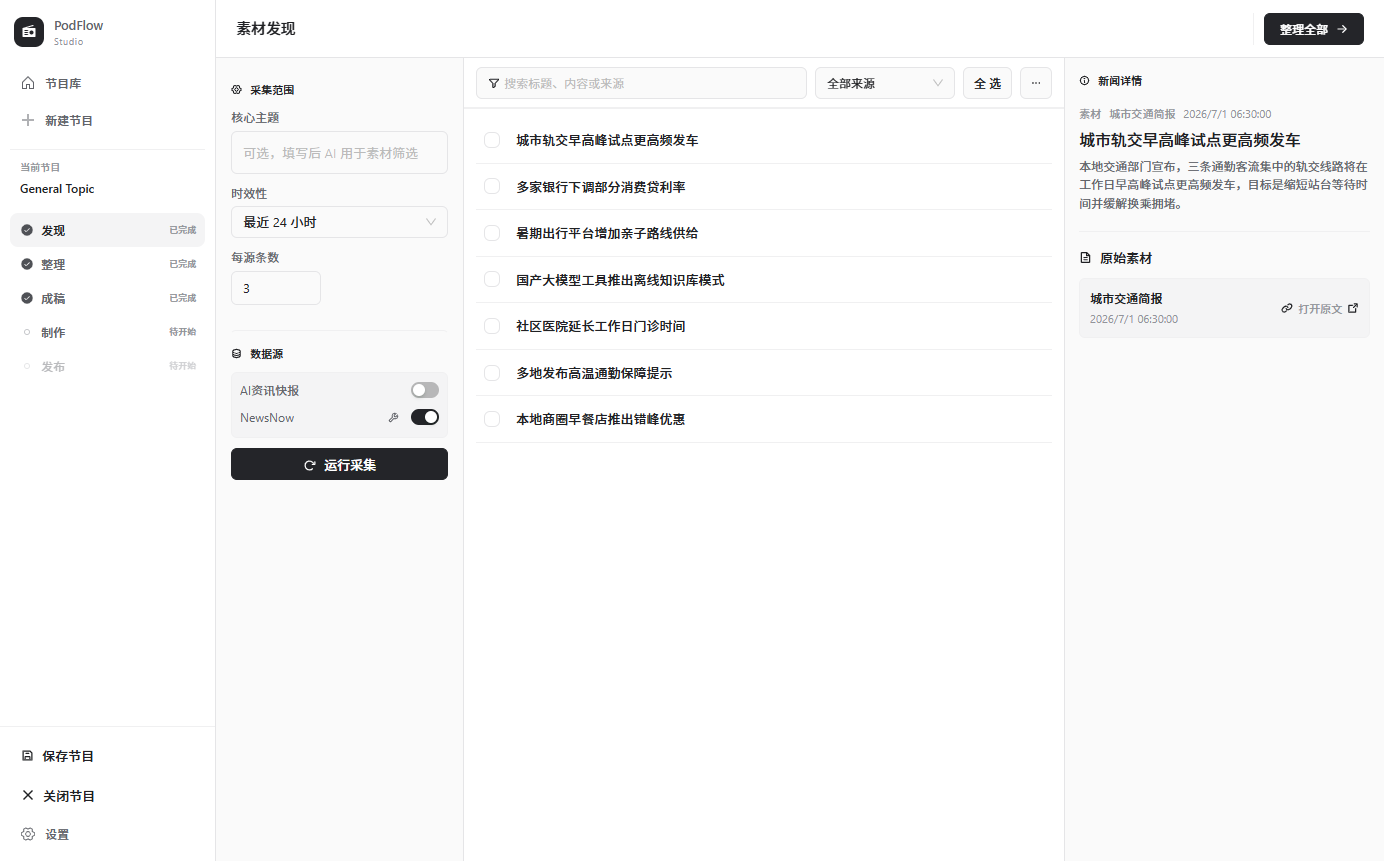
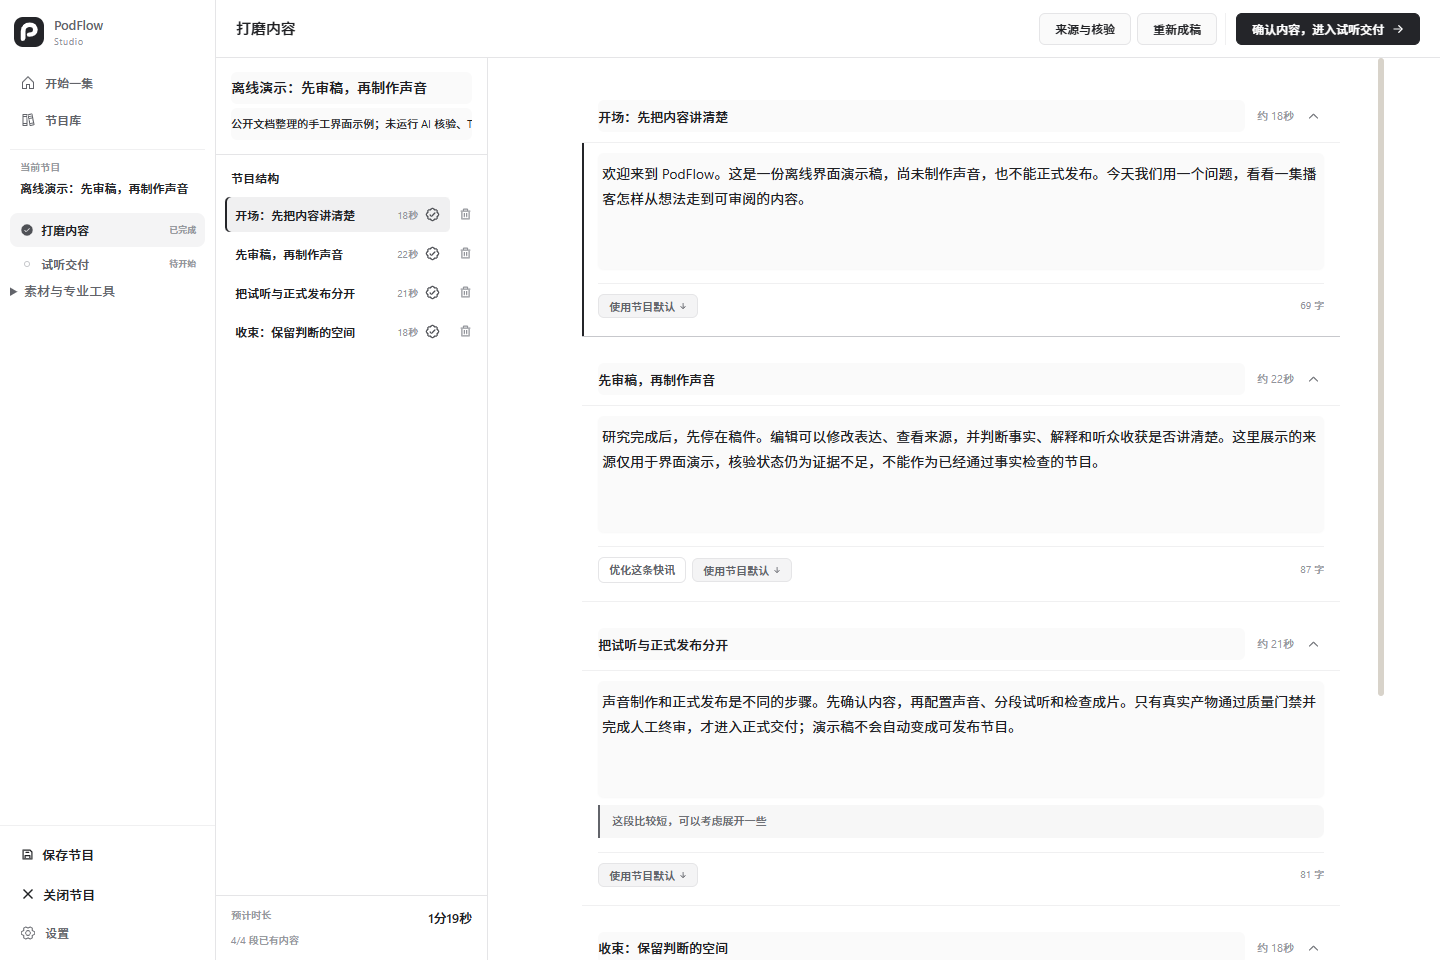
Docs: refresh README with current desktop screenshots
Describe the review-first creation flow and distinguish source UI from the 0.2.0 installer. Replace the discovery hero with the content editor and add real isolated Electron captures for creation, source review, and delivery.

Label manual offline demo content, unresolved claims, pending speech, and placeholder waveforms explicitly. Preserve publication gates and Apache attribution while linking detailed production requirements.

Validation: documentation links, screenshot references and dimensions, attribution preservation, TypeScript check, Vite production build, and staged whitespace check passed. No external providers or publication were invoked.

diff --git a/README.md b/README.md
@@ -1,12 +1,12 @@
 <div align="center">
 
-![PodFlow Studio 0.2.0 — local-first AI podcast production workspace](readme-hero.png)
+![PodFlow Studio 当前源码界面：打磨内容与口播稿编辑](readme-hero.png)
 
 # PodFlow Studio
 
 **本地优先的 AI 新闻播客制作工作台**
 
-从素材发现、整理与事实卡片，到口播稿、配音、音频成片和 RSS 发布包，一条工作流完成一期节目。
+从一个问题或一组素材开始，研究并生成稿件，核对内容后再制作声音，完成终审后导出节目。
 
 **PodFlow Studio 支持 AI 驱动的全流程自动化，但自动化不以牺牲内容质量为代价。只有通过来源核验、编辑门禁、声音质检与人工终审的内容，才能进入正式发布。**
 
@@ -16,34 +16,56 @@
 
 ## PodFlow Studio 是什么
 
-PodFlow Studio 面向独立创作者和小型编辑团队，把每天重复的新闻播客生产流程放进一个统一的桌面工作台。默认节目品牌为 `PodFlow 晨报`，采用 6 条快讯加 1 条重点解读的 12 至 15 分钟结构；素材或来源不足时会阻断公开发布，不以无来源内容凑满时长。
+PodFlow Studio 面向独立创作者和小型编辑团队，把来源整理、研究、写稿、配音和交付放进一个可检查、可编辑、可恢复的桌面工作台。
 
-它不是一个只会“生成文案”的聊天框。素材会沿着明确的编辑链路前进：先收集和整理来源，再形成事实卡片与可编辑稿件，最后进入配音、音频装配和发布。关键节点保留人工确认，来源与 AI 补充知识也会分开呈现。
+默认创作流程是 **开始一集 → 打磨内容 → 试听交付**。AI 先研究并生成可审阅稿件，保存后停止；你核对事实、修改表达并确认内容，再制作声音。来源证据与 AI 补充知识分开呈现，正式发布始终保留人工终审。
 
-自动化负责消除重复劳动，不负责替代编辑判断。PodFlow Studio 将“精品内容”定义为通过明确机器门禁和人工终审的正式产物；任何来源不足、事实检查未完成、稿件未通过门禁、发音未确认、音频质量不合格或缺少人工终审的节目，都必须阻断发布。
+晨报专业模板面向 `PodFlow 晨报` 的“6 条快讯 + 1 条重点解读”；默认创作入口按实际证据安排篇幅，不凑条数或时长。节目结构与音频要求见 [晨间新闻写作手册](docs/editorial/morning-news-writing-playbook.md) 和 [晨报音频生产规范](docs/morning-news-audio-spec.md)。
+
+任何来源不足、事实检查未完成、稿件未通过门禁、发音未确认、音频质量不合格或缺少人工终审的节目，都必须保留真实原因并阻断正式发布。自动化负责减少重复劳动，编辑仍对内容负责。
 
 ```text
 发现素材 → 整理与研究 → 事实卡片 → 口播稿 → 配音 / 录音 → 音频成片 → RSS / 发布包
 ```
 
+## 真实界面
+
+以下截图于 **2026-10-26** 从当前源码工作区启动的 Electron 应用直接捕获，统一为 1440 × 960，未重绘或修改界面。主图展示「打磨内容」。截图包含当时工作区的图标和侧栏样式，不代表已发布的 0.2.0 安装包界面。
+
+截图使用独立本地会话和基于项目公开文档手工整理的演示稿，不含私人节目或密钥。未调用外部 AI、搜索、TTS，也未制作音频或执行正式发布；「证据不足」「待生成」等状态按实际保留。界面中的预计时长与占位波形不代表真实音频结果。
+
+### 开始一集
+
+输入想讲清楚的问题，按需补充素材、听众和听后收获。首次使用需要先配置 AI 成稿目标；声音服务可在审稿后配置。
+
+![开始一集：主题、指定素材与听众目标；尚未配置 AI 成稿目标](assets/readme/start-episode.png)
+
+### 打磨内容
+
+按段编辑口播稿，检查节目结构，并展开「来源与核验」核对证据和主张状态。下图中的主张尚未执行模型核验，明确显示「证据不足」。
+
+![来源与核验：展示原文依据、听众收获及证据不足状态](assets/readme/content-sources.png)
+
+### 试听交付
+
+内容确认后，分段制作 AI 语音或替换为真人录音，再装配成片。图中语音块仍为「待生成」，终审与导出尚不可用。
+
+![试听交付：语音块、声音设置与制作链路；尚未生成音频](assets/readme/listen-deliver.png)
+
 ## 核心能力
 
-- **发现素材**：从 RSS、网页、手动笔记、AI News Daily 和 NewsNow 聚合源采集内容，并按时效、主题和数量筛选。
-- **AI 发现深度稿**：先由 AI 分析与网络研究判断事件的延展价值，再将高潜力选题标为深度稿并继续扩展证据，而不是依赖人工预先标注。
-- **整理与研究**：围绕候选选题补充背景、管理参考来源，把网络证据与 AI 知识分开处理。
-- **事实驱动写作**：先生成结构化 `FactCard`，再写出口播稿，减少原始素材直接进入生成提示带来的失真。
-- **可编辑成稿**：保留生成稿和人工编辑稿；后续 TTS 始终优先使用已编辑版本。
-- **可导演配音**：正式节目固定豆包“爽快思思多情感”，按 80 至 140 字、最多 2 句切分，并把情感、强度和分段语速真正传入 Provider；真人录音可替换任意片段。
-- **自动成片**：片头与开场重叠、5 个快讯 sting、1 个深度 bridge、片尾与收束重叠；正文不持续铺底乐。成片固定 48 kHz、160 kbps、-16 LUFS ±1、真峰值不高于 -1 dBTP。
-- **发布交付**：生成节目音频、`feed.xml`、节目元数据和运行报告，组装为可检查的发布包。
-- **本地优先**：工作流和中间产物保存在本机；没有外部 API Key 也能运行完整离线 demo。
-- **Agent 可验收**：内置会话隔离的 CLI、机器可读状态、CDP 端点、日志、截图与离线端到端验收。
+- **素材与研究**：采集 RSS、网页、手动笔记及聚合源内容，整理候选选题、补充背景，保留可追踪来源。
+- **事实驱动写作**：先形成事实卡片，再生成口播稿；编辑可核对来源与逐条主张，修改后的稿件优先用于配音。
+- **分段声音制作**：按语音块生成、试听和替换 AI 语音，也可使用真人录音；正式晨报的声音与表演要求见 [音频规范](docs/morning-news-audio-spec.md)。
+- **成片与交付**：装配语音和品牌音乐，检查音频质量，完成人工终审后导出节目音频、RSS、元数据和运行报告。
+- **本地工作流**：节目与中间产物保存在本机。外部模型、搜索和语音服务按需配置；离线 demo 可验证本地链路，但不产生可正式发布的节目。
+- **CLI 与 Agent**：通过隔离会话、机器可读状态、日志和验收入口运行与检查流程，详见 [CLI 参考](docs/cli.md)。
 
 ## 安装
 
 ### Windows 安装包
 
-从 [GitHub Releases](https://github.com/liuminxin45/podflow-studio/releases/tag/0.2.0) 下载 0.2.0 的 `.exe` 安装程序。当前安装包尚未进行商业代码签名，Windows SmartScreen 可能显示发布者提示。
+从 [GitHub Releases](https://github.com/liuminxin45/podflow-studio/releases/tag/0.2.0) 下载 0.2.0 的 `.exe` 安装程序。安装包功能以 [0.2.0 发布说明](docs/releases/0.2.0.md) 为准；本文截图与三个创作入口说明对应当前源码。当前安装包尚未进行商业代码签名，Windows SmartScreen 可能显示发布者提示。
 
 ### 从源码运行
 
@@ -87,7 +109,7 @@ npm run setup:python
 npm run demo:news
 ```
 
-这条路径不依赖外网、LLM Key 或 TTS Key。没有真实 TTS 时会生成 mock WAV，再由 npm 安装的 FFmpeg 完成音频处理并输出 `final.mp3`。若 npm 安装不完整，流程会明确失败并报告缺失的运行时依赖。
+这条路径不依赖外网、LLM Key 或 TTS Key。没有真实 TTS 时会生成 mock WAV，再由 npm 安装的 FFmpeg 完成音频处理并输出 `final.mp3`。这些是离线验收产物，不代表真实配音或通过正式发布门禁的节目，不能直接用于正式发布。若 npm 安装不完整，流程会明确失败并报告缺失的运行时依赖。
 
 运行完成后，主要结果位于 `examples/demo-news/output/`：
 
@@ -137,7 +159,7 @@ LLM 成稿和正式 TTS，并在机器门禁通过后等待绑定最终 MP3 SHA2
 
 ### 事实卡片，而不是素材拼接
 
-`FactCard` 是来源与稿件之间的事实层。当前 schema v2 用 `evidence[]` 保存可追踪证据，用 `claims[]` 保存逐主张模型核验结果；新闻段必须同时绑定 `source_fact_ids` 与已支持的 `source_claim_ids`。写作节点消费经过整理的事实，而不是把网页原文直接拼进 Prompt。
+`FactCard` 是来源与稿件之间的事实层，保存可追踪证据和逐主张核验结果。正式新闻段需要绑定事实及已支持的主张；来源不足或存在冲突时，应先补充核验，不能把完整的界面或已填写的稿件视为通过审核。
 
 ### 人工编辑稿优先
 
@@ -153,12 +175,9 @@ LLM 成稿和正式 TTS，并在机器门禁通过后等待绑定最终 MP3 SHA2
 
 ### 导出与发布公开节目包
 
-正式节目统一通过 `podflow produce` 完成渲染、指纹审批、打包和发布。发布包只消费
-Review 节点生成且绑定当前音频的 `publish_ready` 状态；Provider、质量配置、时长与
-音频指标均来自真实产物，不使用固定占位值。完整阶段和固定资产列表见
-[CLI 参考](docs/cli.md)。
+正式候选节目通过 `podflow produce` 生成与渲染，机器门禁通过后，仍需绑定当前 MP3 SHA256 的人工终审。正式发布包只消费绑定当前音频的 `publish_ready` 状态，音频指标来自真实产物。阶段、固定资产与发布配置见 [CLI 参考](docs/cli.md)。
 
-正式 MP3 只存放在公开的 `liuminxin45/podflow-morning-feed` GitHub Release；个人主页在 Pages 构建时读取 Release API、校验固定资产和 SHA256，只复制封面、章节与文字稿等小文件。RSS enclosure 与站内原生播放器直接使用不可变 MP3 Release URL，因此主页 Git 历史不会随每日音频持续膨胀。已存在的日期型 Release 不会被覆盖；同步失败时新部署会被阻断，线上旧版本保持不变。
+仓库维护者的公开晨报通过独立的 [podflow-morning-feed](https://github.com/liuminxin45/podflow-morning-feed) 仓库托管音频，并由个人主页提供试听和订阅。该部署需要单独配置，不是安装桌面端后自动获得的托管服务。
 
 ## 配置
 
@@ -185,8 +204,6 @@ npm run verify:offline  # 运行无需外部服务的校验
 npm run demo:news       # 运行端到端离线示例
 npm run acceptance:cdp # 运行隔离的 Electron/CDP 主路径验收
 ```
-
-README 主图来自 Electron/CDP 离线验收捕获的真实素材发现界面，产品界面没有经过重绘。
 
 项目主要由 Electron、React、TypeScript 和 Python 组成。React 只提交类型化 AI 任务；Electron 负责凭据边界、Python Gateway 生命周期、IPC 和取消传播；Python 的 Agent Registry 与 Pydantic AI Runtime 是唯一 AI 执行中心。跨进程只传 PodFlow JSON 契约，不公开任意 Prompt/messages 接口。
 
